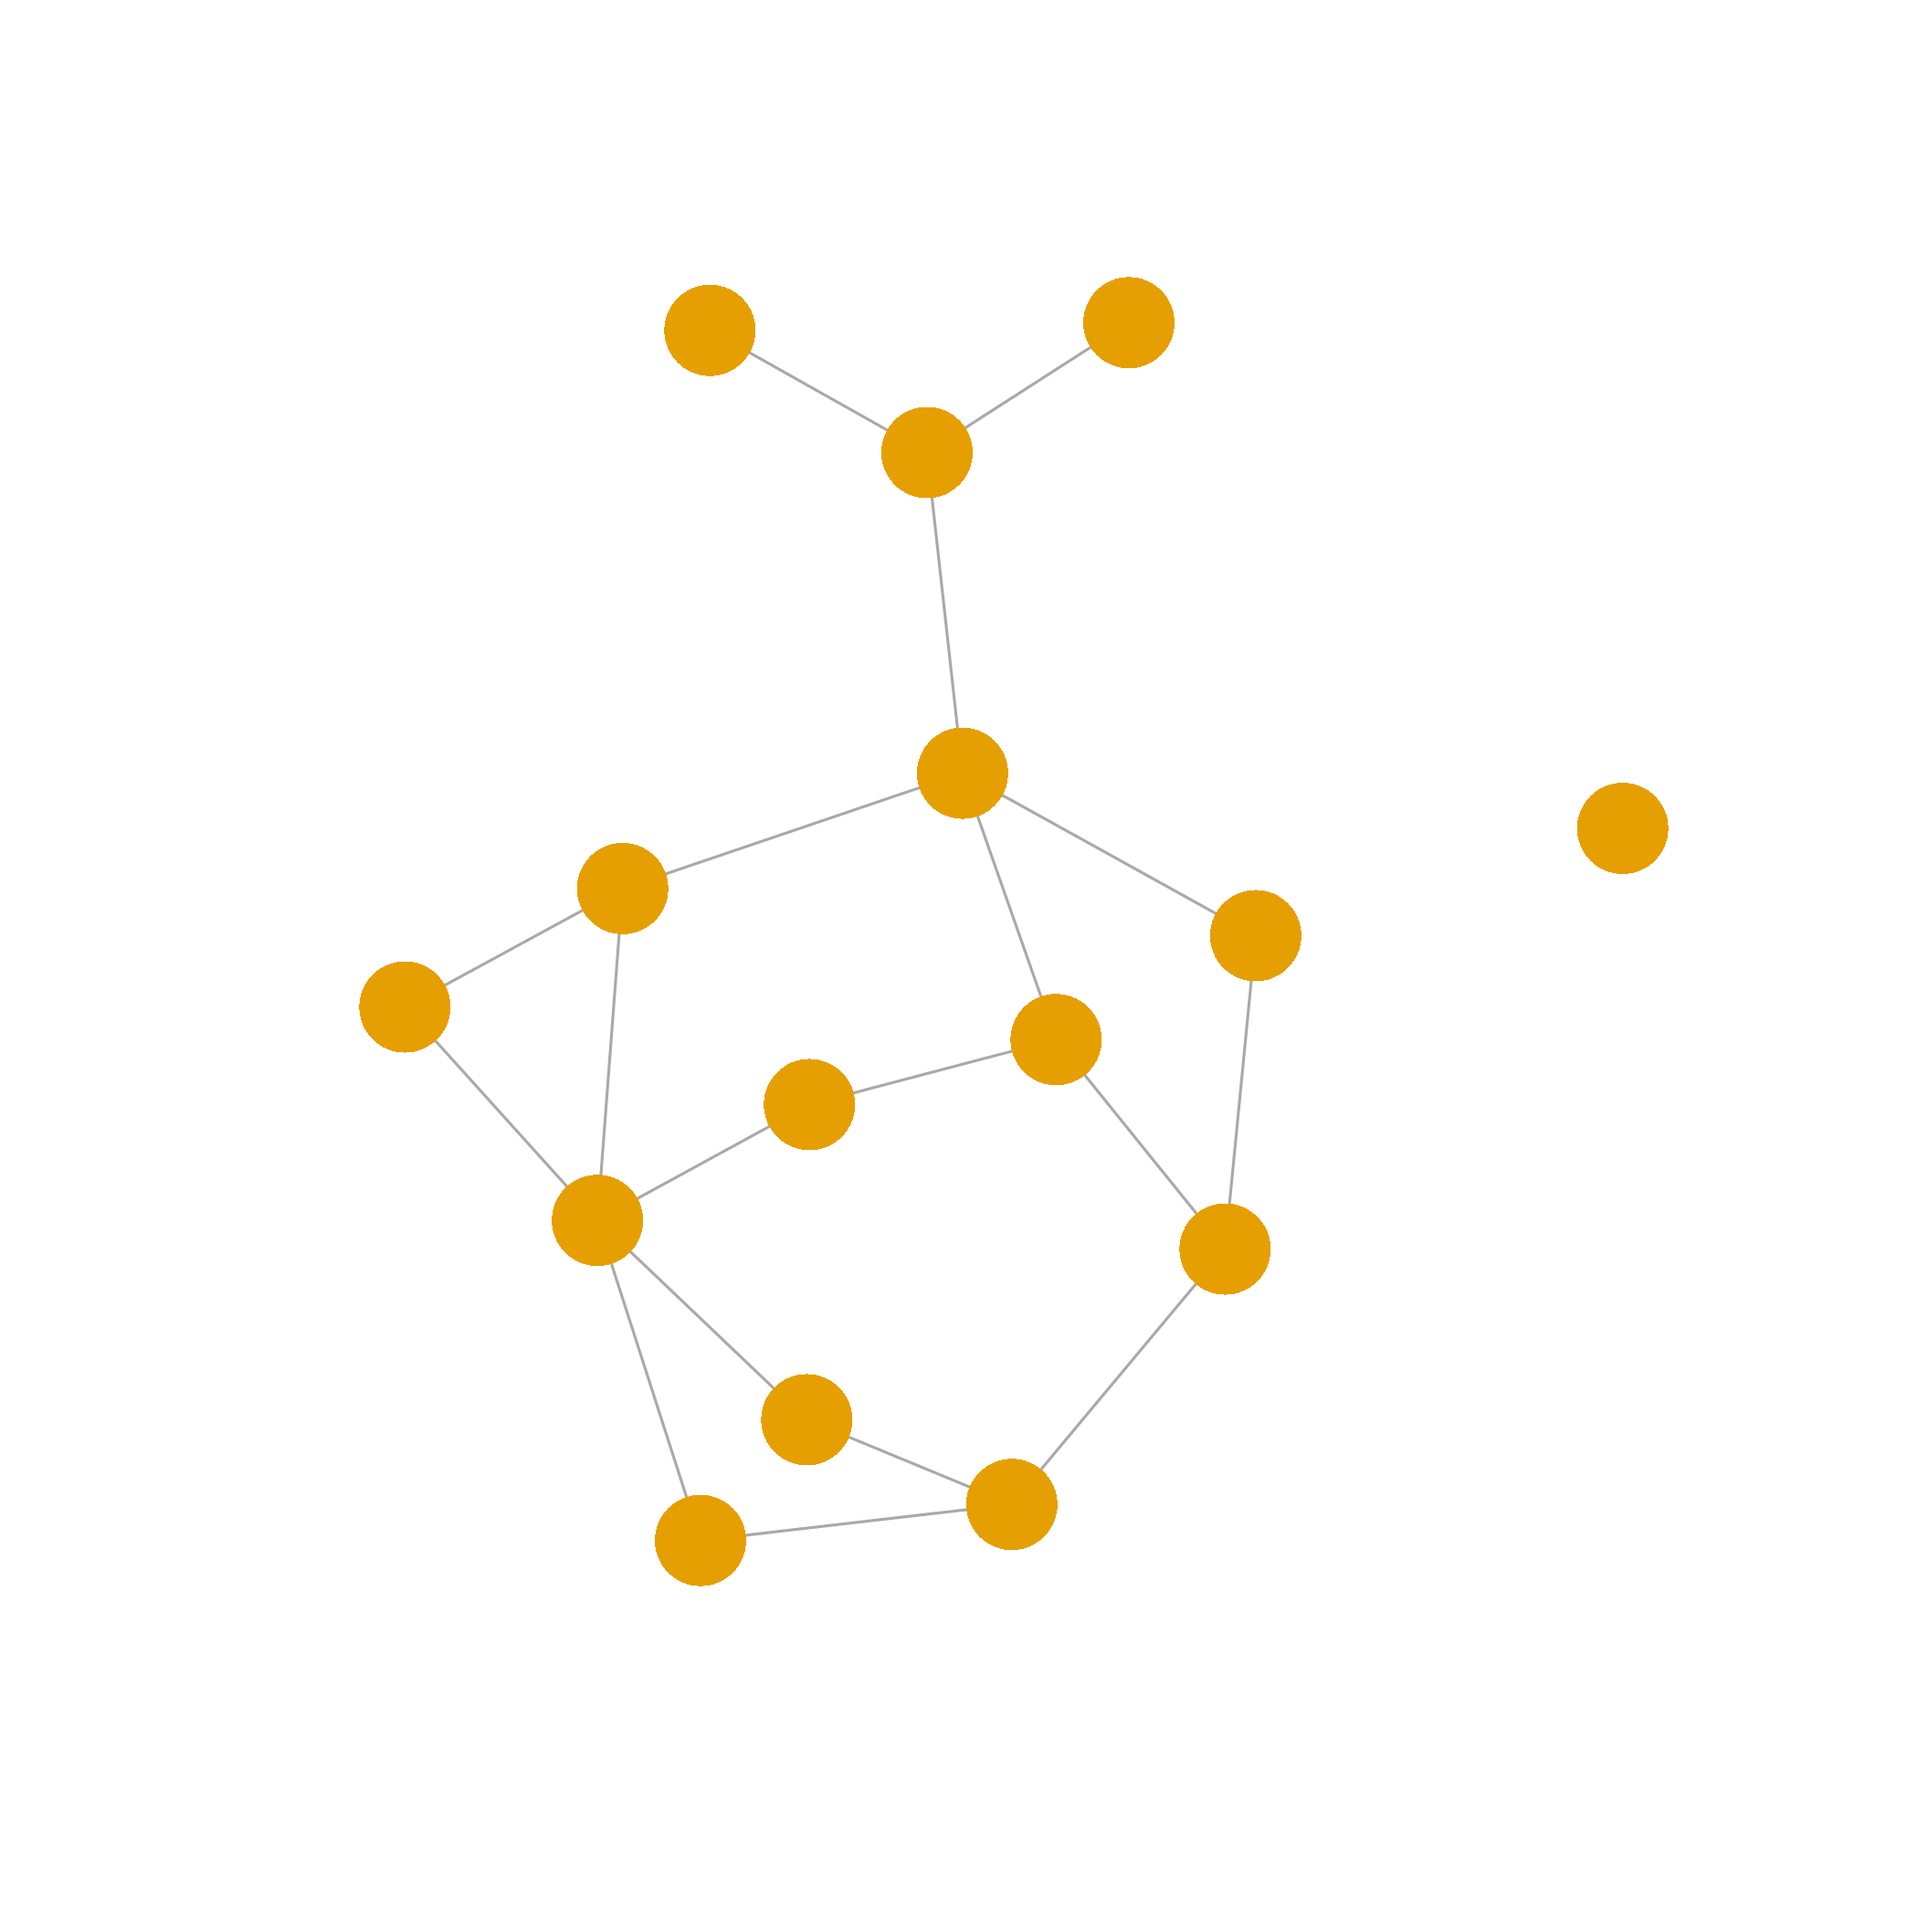
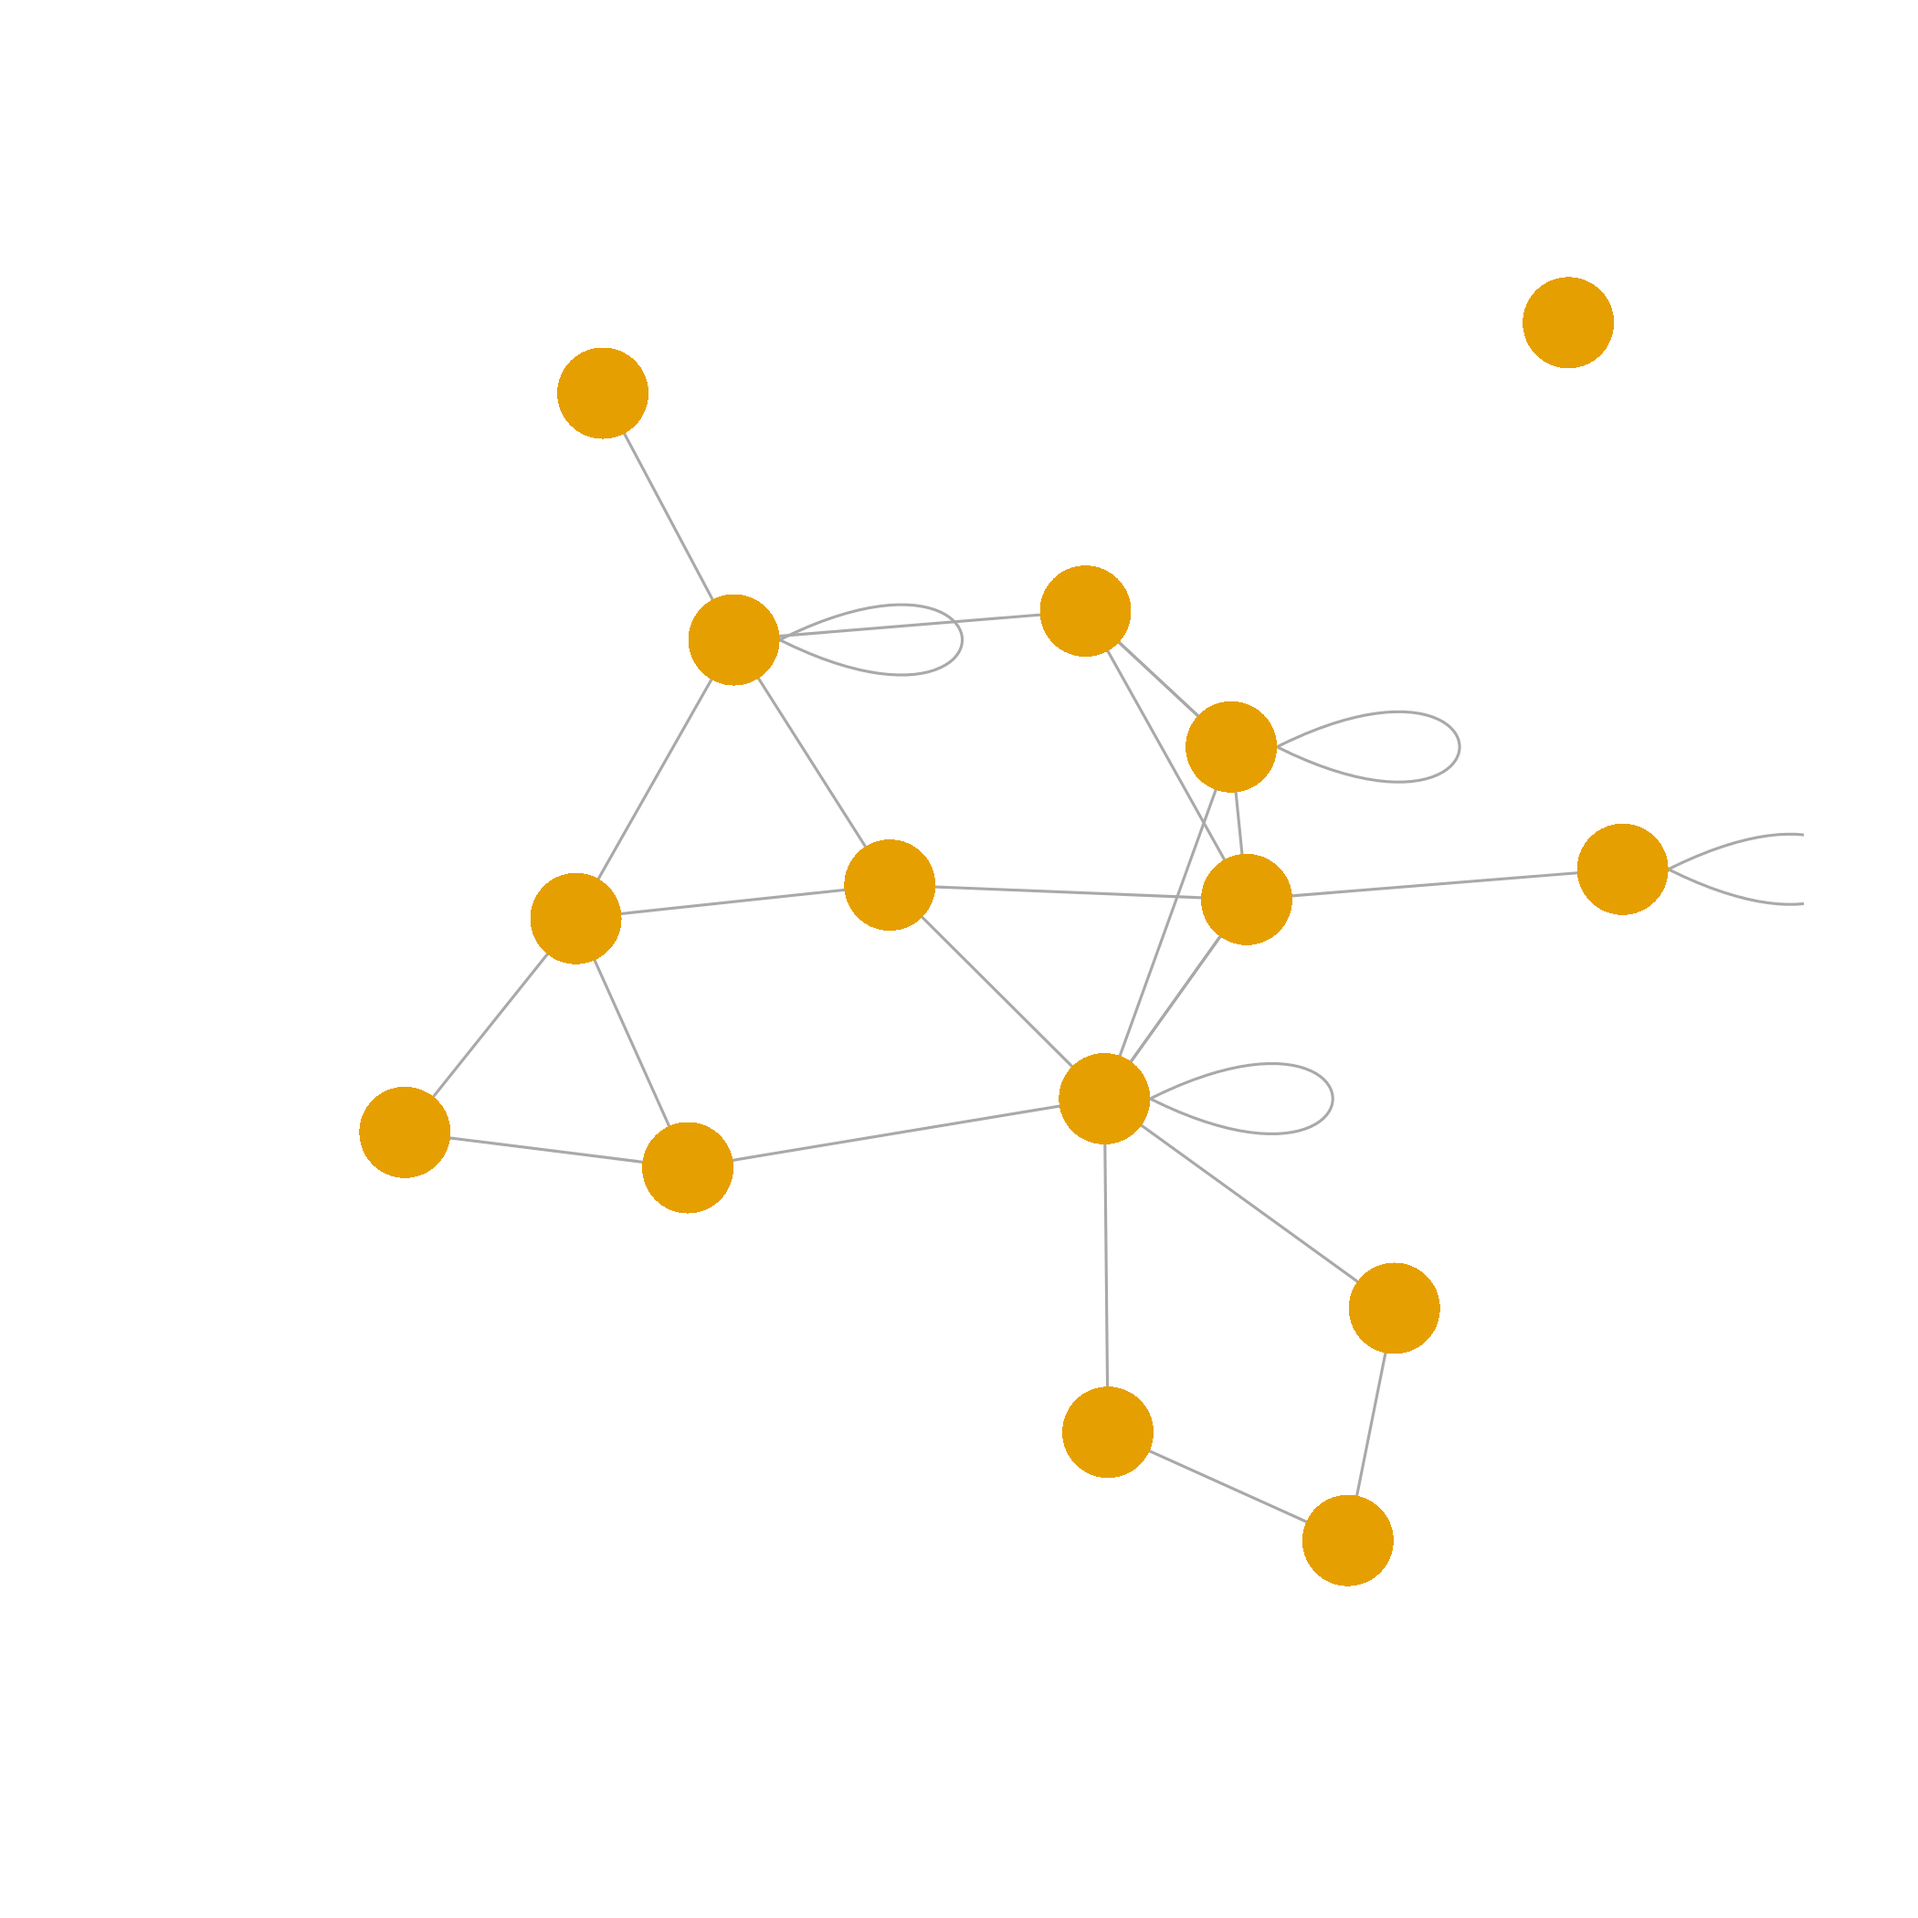
Update the slides

diff --git a/cours4/index.html b/cours4/index.html
@@ -940,7 +940,7 @@ L[runif(S*S) &lt; C] = 1
 sum(L)
 </code></pre>
 
-<pre><code>## [1] 18
+<pre><code>## [1] 27
 </code></pre>
 
 <pre><code class="r">g &lt;- graph.adjacency(L)
@@ -1116,7 +1116,7 @@ plot(g, vertex.label=NA, edge.arrow.mode = 0,
 modularity(wtc)
 </code></pre>
 
-<pre><code>## [1] 0.3873457
+<pre><code>## [1] 0.340192
 </code></pre>
 
   </article>
@@ -1134,35 +1134,35 @@ modularity(wtc)
 </code></pre>
 
 <pre><code>##       [,1] [,2] [,3] [,4] [,5] [,6] [,7] [,8] [,9] [,10] [,11] [,12] [,13]
-##  [1,]    0    3    2    2    3    2    1    1  Inf     2     3     1     2
-##  [2,]    3    0    3    4    5    2    2    3  Inf     1     5     2     1
-##  [3,]    2    3    0    2    3    2    1    1  Inf     3     3     3     2
-##  [4,]    2    4    2    0    1    2    3    1  Inf     3     1     3     4
-##  [5,]    3    5    3    1    0    3    4    2  Inf     4     2     4     5
-##  [6,]    2    2    2    2    3    0    3    1  Inf     1     3     2     3
-##  [7,]    1    2    1    3    4    3    0    2  Inf     3     4     2     1
-##  [8,]    1    3    1    1    2    1    2    0  Inf     2     2     2     3
-##  [9,]  Inf  Inf  Inf  Inf  Inf  Inf  Inf  Inf    0   Inf   Inf   Inf   Inf
-## [10,]    2    1    3    3    4    1    3    2  Inf     0     4     1     2
-## [11,]    3    5    3    1    2    3    4    2  Inf     4     0     4     5
-## [12,]    1    2    3    3    4    2    2    2  Inf     1     4     0     3
-## [13,]    2    1    2    4    5    3    1    3  Inf     2     5     3     0
-## [14,]    3    2    3    3    4    1    4    2  Inf     1     4     2     3
-## [15,]    3    2    3    4    5    2    2    3  Inf     1     5     2     1
+##  [1,]    0    4    3    4    3    5    4  Inf    2     4     1     1     3
+##  [2,]    4    0    3    4    2    3    3  Inf    2     1     3     3     3
+##  [3,]    3    3    0    2    2    3    1  Inf    1     3     2     2     1
+##  [4,]    4    4    2    0    2    4    2  Inf    2     3     3     3     1
+##  [5,]    3    2    2    2    0    2    2  Inf    1     1     2     2     1
+##  [6,]    5    3    3    4    2    0    2  Inf    3     2     4     4     3
+##  [7,]    4    3    1    2    2    2    0  Inf    2     2     3     3     1
+##  [8,]  Inf  Inf  Inf  Inf  Inf  Inf  Inf    0  Inf   Inf   Inf   Inf   Inf
+##  [9,]    2    2    1    2    1    3    2  Inf    0     2     1     1     1
+## [10,]    4    1    3    3    1    2    2  Inf    2     0     3     3     2
+## [11,]    1    3    2    3    2    4    3  Inf    1     3     0     2     2
+## [12,]    1    3    2    3    2    4    3  Inf    1     3     2     0     2
+## [13,]    3    3    1    1    1    3    1  Inf    1     2     2     2     0
+## [14,]    3    1    2    3    2    3    3  Inf    1     1     2     2     2
+## [15,]    4    2    2    3    1    1    1  Inf    2     1     3     3     2
 ##       [,14] [,15]
-##  [1,]     3     3
-##  [2,]     2     2
-##  [3,]     3     3
-##  [4,]     3     4
-##  [5,]     4     5
-##  [6,]     1     2
-##  [7,]     4     2
-##  [8,]     2     3
-##  [9,]   Inf   Inf
+##  [1,]     3     4
+##  [2,]     1     2
+##  [3,]     2     2
+##  [4,]     3     3
+##  [5,]     2     1
+##  [6,]     3     1
+##  [7,]     3     1
+##  [8,]   Inf   Inf
+##  [9,]     1     2
 ## [10,]     1     1
-## [11,]     4     5
-## [12,]     2     2
-## [13,]     3     1
+## [11,]     2     3
+## [12,]     2     3
+## [13,]     2     2
 ## [14,]     0     2
 ## [15,]     2     0
 </code></pre>
@@ -1181,9 +1181,9 @@ modularity(wtc)
 <pre><code class="r">eigen_centrality(g)$vector
 </code></pre>
 
-<pre><code>##  [1] 0.6011647 0.5154188 0.4182311 0.3134140 0.1059369 0.7835831 0.5219748
-##  [8] 0.7153607 0.0000000 1.0000000 0.1059369 0.5412088 0.5248652 0.6028679
-## [15] 0.5154188
+<pre><code>##  [1] 9.489779e-02 1.176719e-01 8.030454e-01 2.272187e-01 5.262632e-01
+##  [6] 8.086518e-02 5.951291e-01 3.753705e-17 1.000000e+00 2.752812e-01
+## [11] 2.279291e-01 2.279291e-01 8.642665e-01 2.899765e-01 3.884501e-01
 </code></pre>
 
   </article>

diff --git a/cours3/index.html b/cours3/index.html
@@ -869,7 +869,7 @@ head(nb_acteurs)
 <li>Nombre de liens par étudiant</li>
 <li>Décompte de liens par paire d&#39;étudiants</li>
 </ul></li>
-<li><p>Enregistrer le résultat des requêtes</p></li>
+<li><p>Enregistrer le résultat des requêtes dans un fichier csv (voir la diapo 34 de ce cours)</p></li>
 </ol>
 
   </article>

diff --git a/cours4/index.md b/cours4/index.md
@@ -660,7 +660,7 @@ sum(L)
 ```
 
 ```
-## [1] 18
+## [1] 27
 ```
 
 ```r
@@ -802,7 +802,7 @@ modularity(wtc)
 ```
 
 ```
-## [1] 0.3873457
+## [1] 0.340192
 ```
 
 ---
@@ -818,35 +818,35 @@ distances(g)
 
 ```
 ##       [,1] [,2] [,3] [,4] [,5] [,6] [,7] [,8] [,9] [,10] [,11] [,12] [,13]
-##  [1,]    0    3    2    2    3    2    1    1  Inf     2     3     1     2
-##  [2,]    3    0    3    4    5    2    2    3  Inf     1     5     2     1
-##  [3,]    2    3    0    2    3    2    1    1  Inf     3     3     3     2
-##  [4,]    2    4    2    0    1    2    3    1  Inf     3     1     3     4
-##  [5,]    3    5    3    1    0    3    4    2  Inf     4     2     4     5
-##  [6,]    2    2    2    2    3    0    3    1  Inf     1     3     2     3
-##  [7,]    1    2    1    3    4    3    0    2  Inf     3     4     2     1
-##  [8,]    1    3    1    1    2    1    2    0  Inf     2     2     2     3
-##  [9,]  Inf  Inf  Inf  Inf  Inf  Inf  Inf  Inf    0   Inf   Inf   Inf   Inf
-## [10,]    2    1    3    3    4    1    3    2  Inf     0     4     1     2
-## [11,]    3    5    3    1    2    3    4    2  Inf     4     0     4     5
-## [12,]    1    2    3    3    4    2    2    2  Inf     1     4     0     3
-## [13,]    2    1    2    4    5    3    1    3  Inf     2     5     3     0
-## [14,]    3    2    3    3    4    1    4    2  Inf     1     4     2     3
-## [15,]    3    2    3    4    5    2    2    3  Inf     1     5     2     1
+##  [1,]    0    4    3    4    3    5    4  Inf    2     4     1     1     3
+##  [2,]    4    0    3    4    2    3    3  Inf    2     1     3     3     3
+##  [3,]    3    3    0    2    2    3    1  Inf    1     3     2     2     1
+##  [4,]    4    4    2    0    2    4    2  Inf    2     3     3     3     1
+##  [5,]    3    2    2    2    0    2    2  Inf    1     1     2     2     1
+##  [6,]    5    3    3    4    2    0    2  Inf    3     2     4     4     3
+##  [7,]    4    3    1    2    2    2    0  Inf    2     2     3     3     1
+##  [8,]  Inf  Inf  Inf  Inf  Inf  Inf  Inf    0  Inf   Inf   Inf   Inf   Inf
+##  [9,]    2    2    1    2    1    3    2  Inf    0     2     1     1     1
+## [10,]    4    1    3    3    1    2    2  Inf    2     0     3     3     2
+## [11,]    1    3    2    3    2    4    3  Inf    1     3     0     2     2
+## [12,]    1    3    2    3    2    4    3  Inf    1     3     2     0     2
+## [13,]    3    3    1    1    1    3    1  Inf    1     2     2     2     0
+## [14,]    3    1    2    3    2    3    3  Inf    1     1     2     2     2
+## [15,]    4    2    2    3    1    1    1  Inf    2     1     3     3     2
 ##       [,14] [,15]
-##  [1,]     3     3
-##  [2,]     2     2
-##  [3,]     3     3
-##  [4,]     3     4
-##  [5,]     4     5
-##  [6,]     1     2
-##  [7,]     4     2
-##  [8,]     2     3
-##  [9,]   Inf   Inf
+##  [1,]     3     4
+##  [2,]     1     2
+##  [3,]     2     2
+##  [4,]     3     3
+##  [5,]     2     1
+##  [6,]     3     1
+##  [7,]     3     1
+##  [8,]   Inf   Inf
+##  [9,]     1     2
 ## [10,]     1     1
-## [11,]     4     5
-## [12,]     2     2
-## [13,]     3     1
+## [11,]     2     3
+## [12,]     2     3
+## [13,]     2     2
 ## [14,]     0     2
 ## [15,]     2     0
 ```
@@ -863,9 +863,9 @@ eigen_centrality(g)$vector
 ```
 
 ```
-##  [1] 0.6011647 0.5154188 0.4182311 0.3134140 0.1059369 0.7835831 0.5219748
-##  [8] 0.7153607 0.0000000 1.0000000 0.1059369 0.5412088 0.5248652 0.6028679
-## [15] 0.5154188
+##  [1] 9.489779e-02 1.176719e-01 8.030454e-01 2.272187e-01 5.262632e-01
+##  [6] 8.086518e-02 5.951291e-01 3.753705e-17 1.000000e+00 2.752812e-01
+## [11] 2.279291e-01 2.279291e-01 8.642665e-01 2.899765e-01 3.884501e-01
 ```
 
 --- .transition

diff --git a/cours3/index.md b/cours3/index.md
@@ -695,7 +695,7 @@ DELETE FROM films;
   - Nombre de liens par étudiant
   - Décompte de liens par paire d'étudiants
 
-4. Enregistrer le résultat des requêtes
+4. Enregistrer le résultat des requêtes dans un fichier csv (voir la diapo 34 de ce cours)
 
 ---
 
